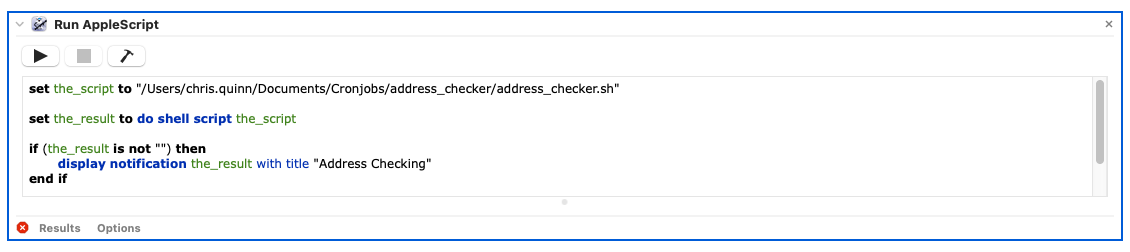
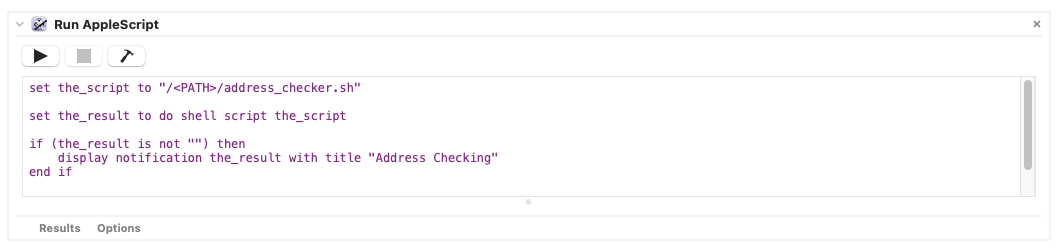
Workflow edit and media

diff --git a/README.md b/README.md
@@ -16,9 +16,16 @@ A stupid but hacked way of persistently checking address-level balances for moni
 10 10 * * * /usr/bin/automator /<PATH>/address_checker.workflow
 ```
 
+^ This above can be changed to a schedule of your choice, a great website for the schedule you want is [crontab.guru](https://crontab.guru/). 
+
 4. Take the `<PATH>` and also paste this into the file `address_checker.sh`.
 
-^ This above can be changed to a schedule of your choice, a great website for the schedule you want is [crontab.guru](https://crontab.guru/). 
+5. Open automator and also take this `<PATH>` into the "Run AppleScript" tab.
+
+![Automator setup](/media/automator_setup.png "Automator Setup")
+
+> The reason for this automator stuff is that any text output to `stdout` will come up as an apple notification much like slack (for example).
+
 
 **Note:** As you can see in the source code the API requests are being sent to blockchair and you can easily become IP-blacklisted from too many requests. Occaisonal requests are best.
 
